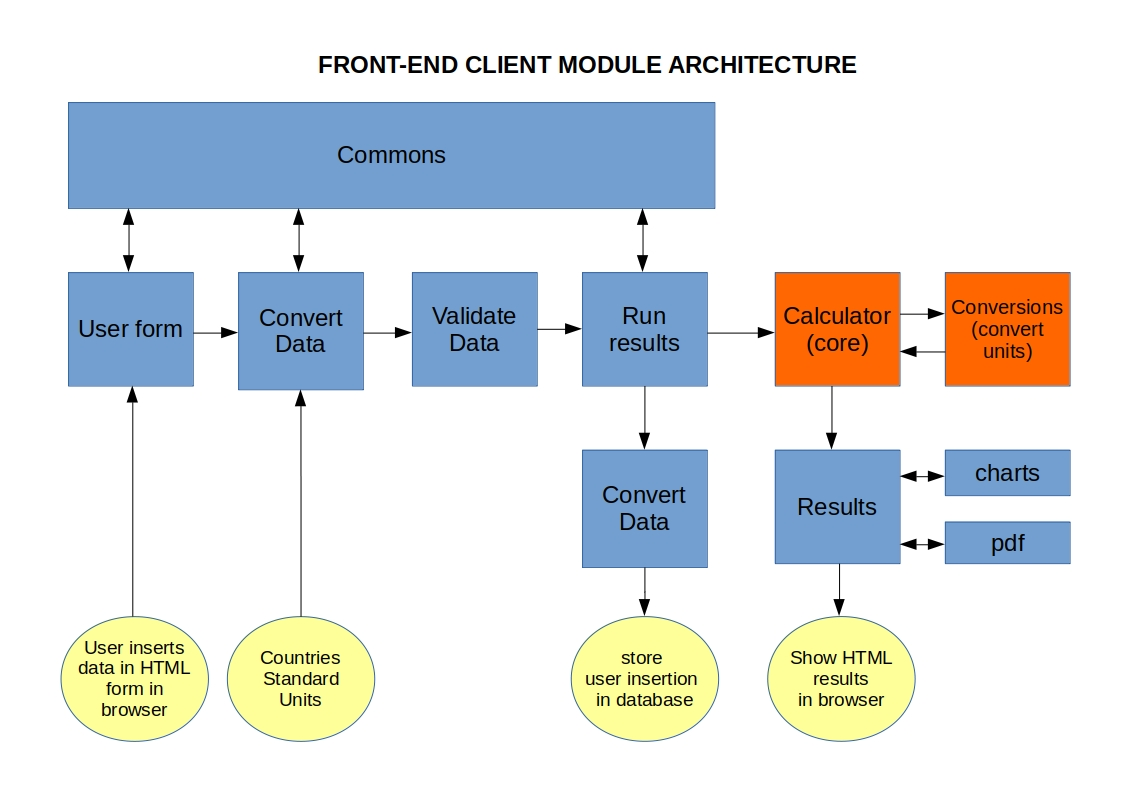
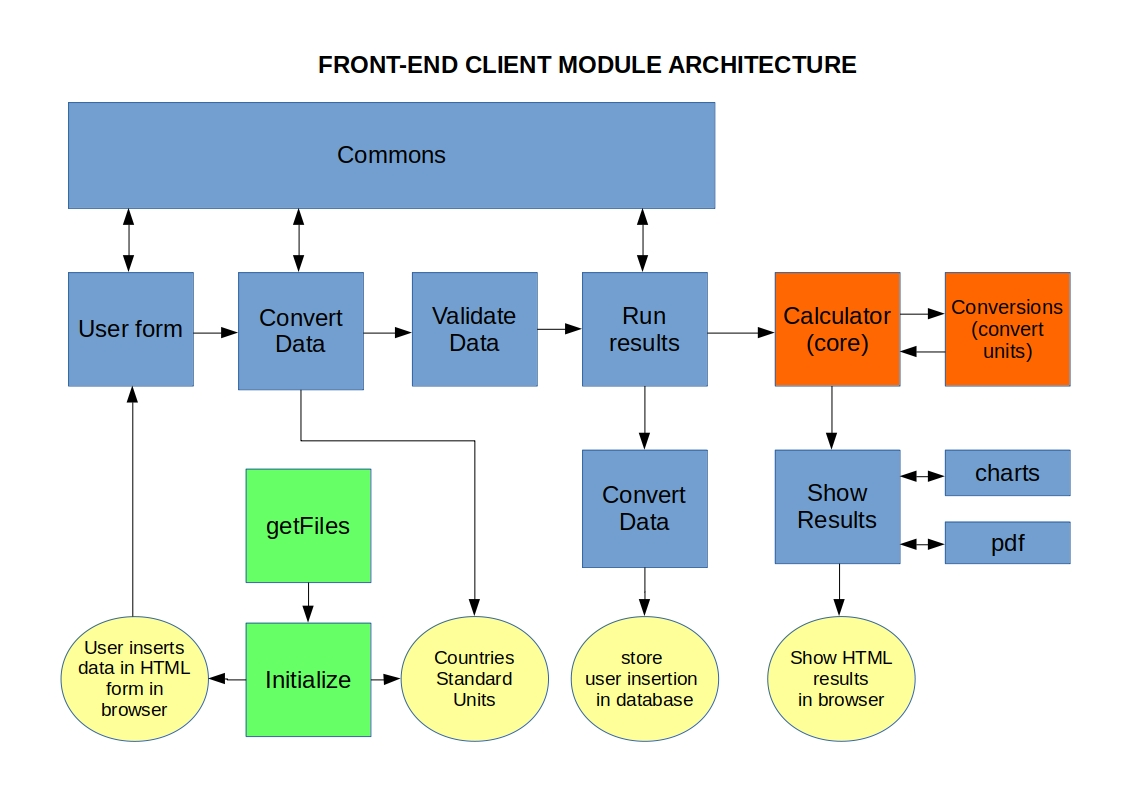
docs

Changed region(s): [[0.187, 0.5743, 0.4987, 0.937], [0.6857, 0.6045, 0.7792, 0.665], [0.2493, 0.4836, 0.2805, 0.5139]]

diff --git a/contributing.md b/contributing.md
@@ -408,19 +408,19 @@ autocosts
    |
    |--- initializeModule
    |
-   |--- calculatorModule
-   |        |
-   |        |--- conversionsModule
+   |--- userFormModule
    |
    |--- convertDataModule
    |
    |--- validateDataModule
    |
-   |--- userFormModule
+   |--- runResultsModule
    |
-   |--- resultsModule
-            |
-            |--- runResultsModule
+   |--- calculatorModule
+   |        |
+   |        |--- conversionsModule
+   |
+   |--- showResultsModule
             |--- chartsModule
             |--- pdfModule
 
